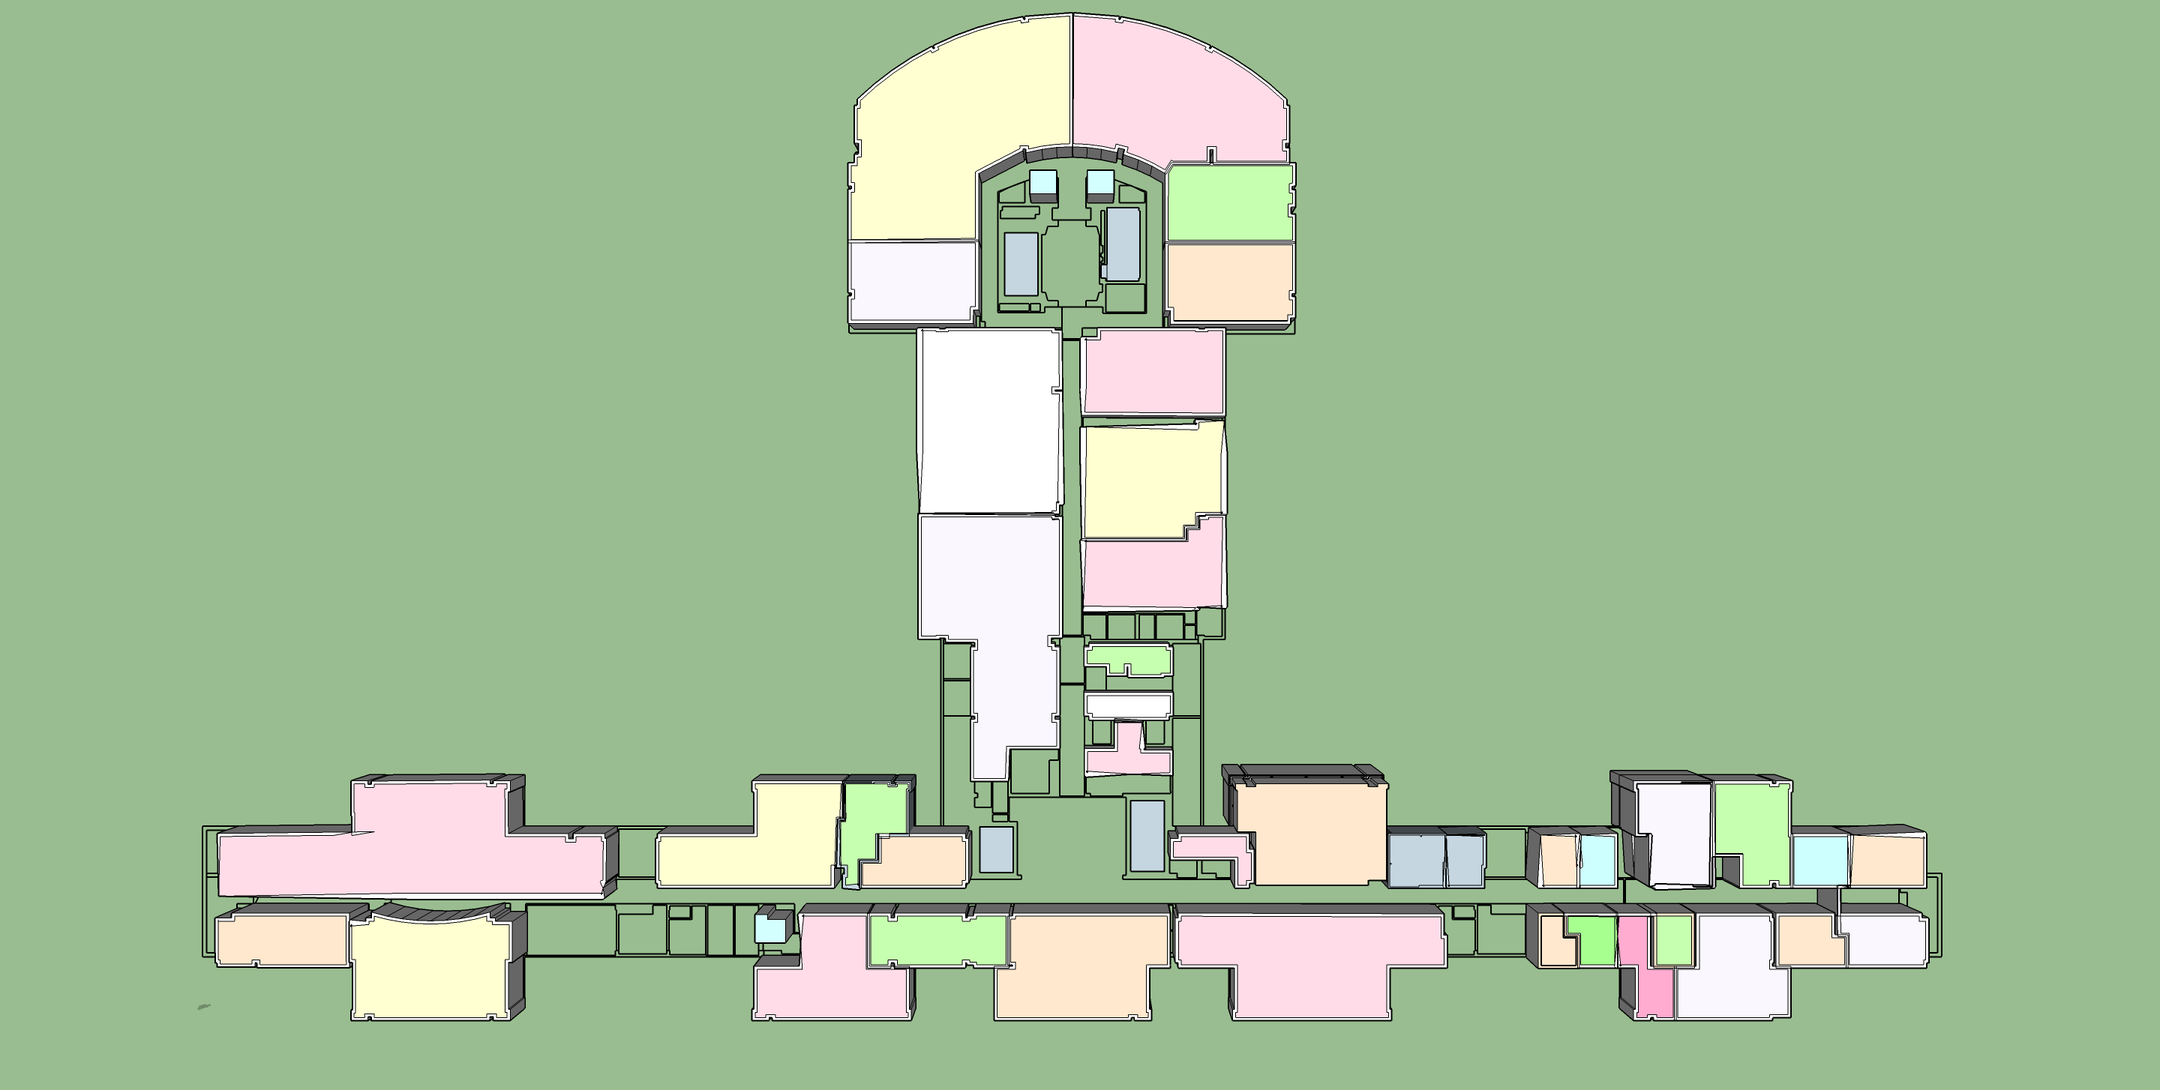
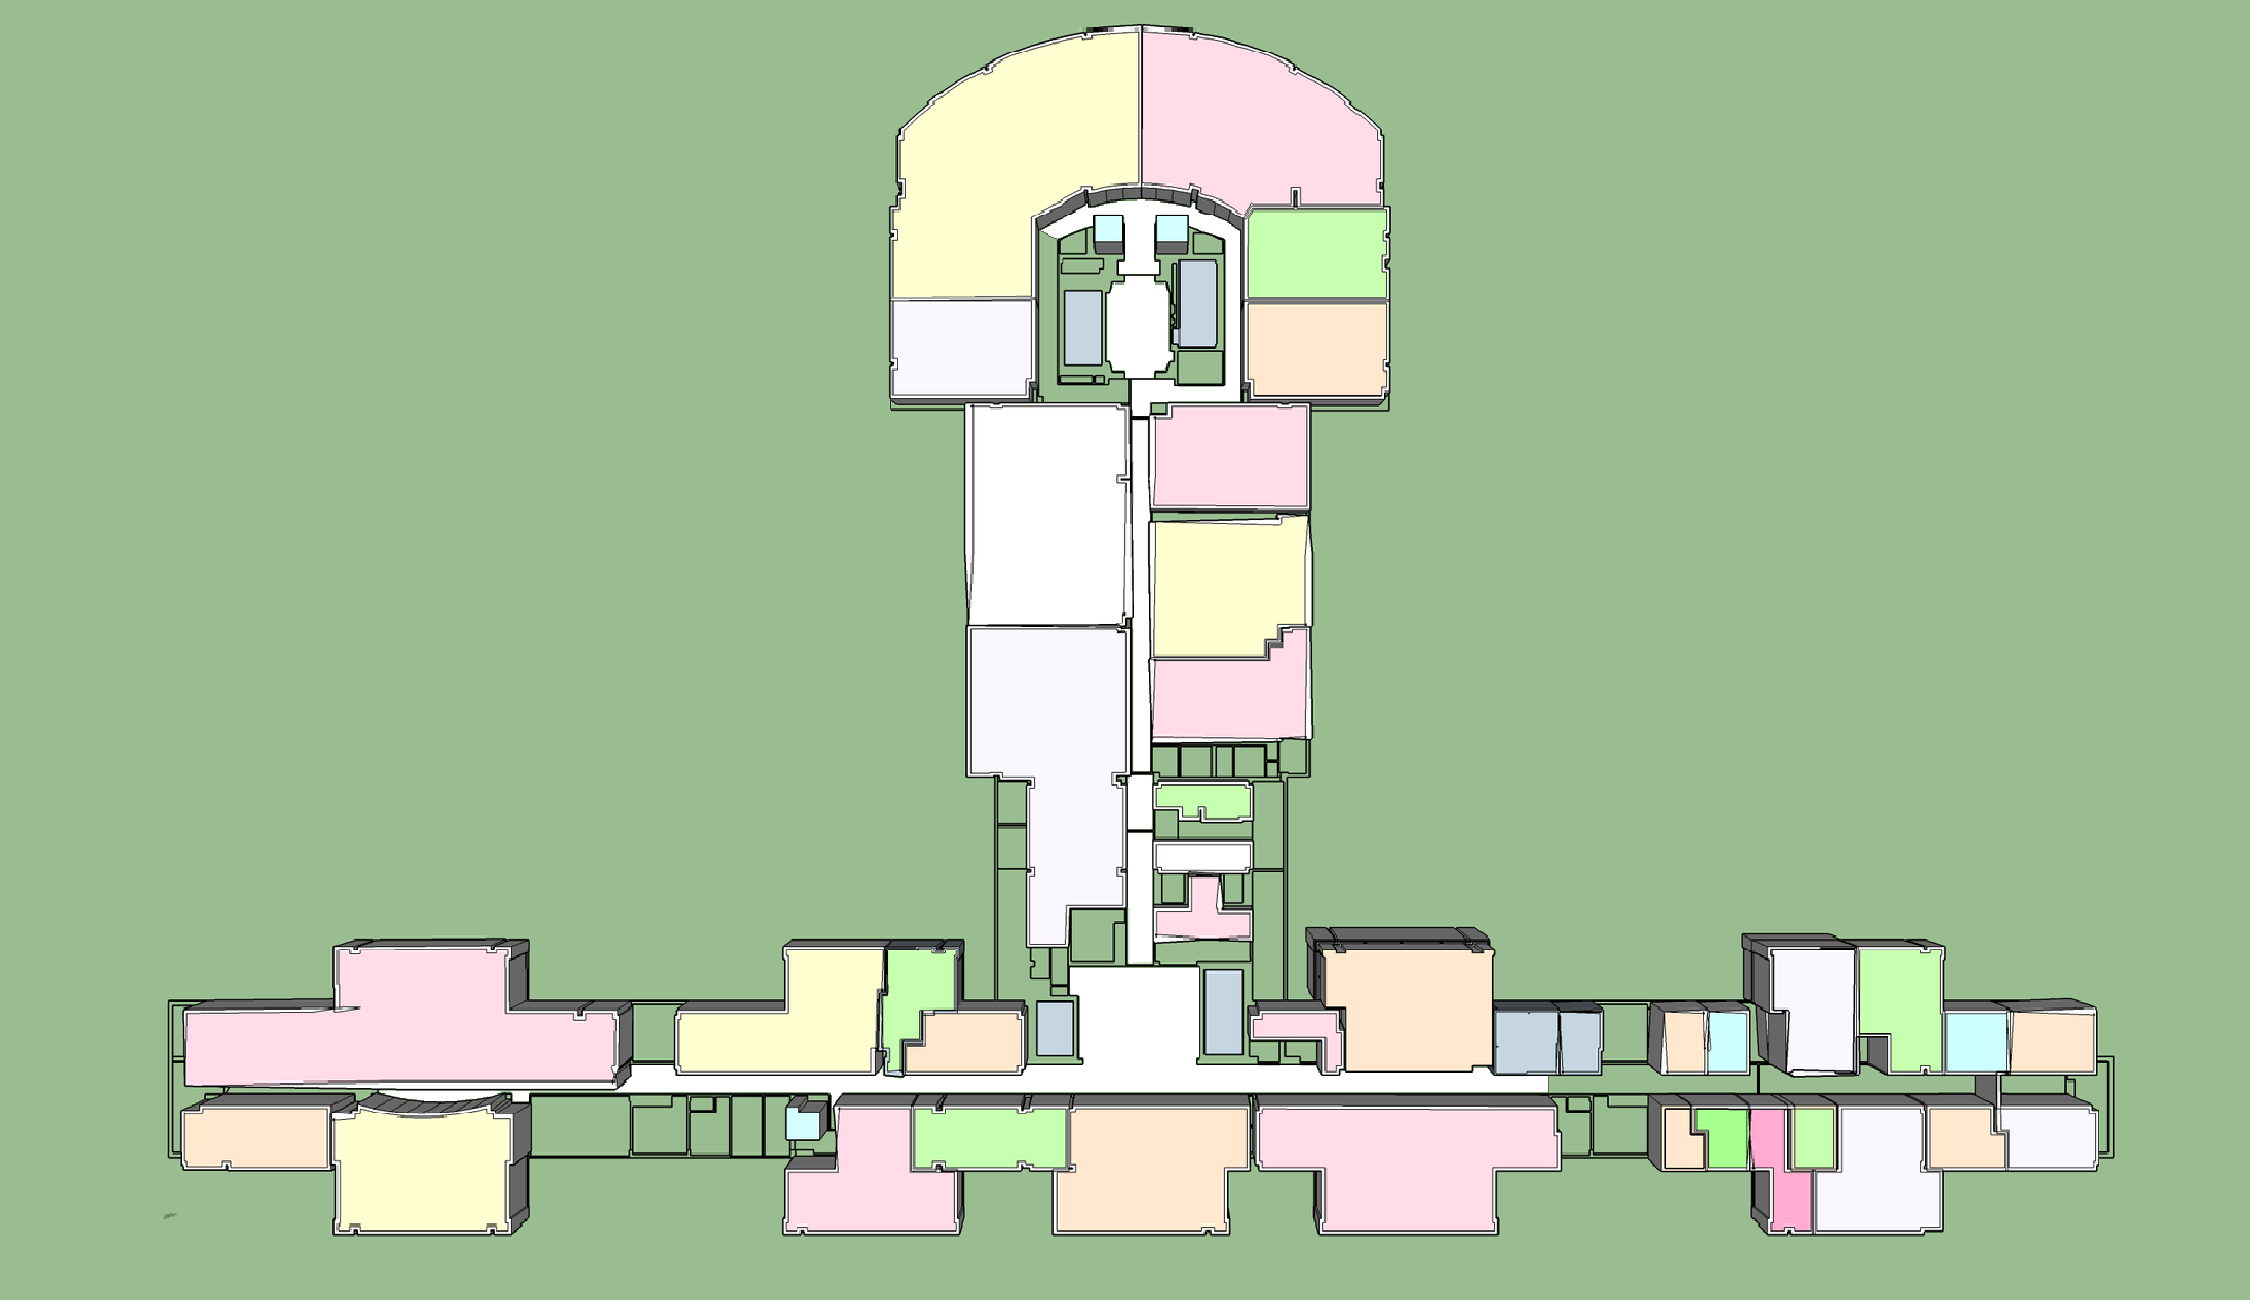
1rst floor correct locations and some connections

Changed region(s): [[0.062, 0.0, 0.9616, 0.967]]

diff --git a/src/main/java/Map/Enums/ImageType.java b/src/main/java/Map/Enums/ImageType.java
@@ -8,6 +8,7 @@ import com.fasterxml.jackson.annotation.JsonFormat;
 @JsonFormat(shape = JsonFormat.Shape.OBJECT)
 public enum ImageType {
 
+    HALLWAYS("/icons/hall.png"),
     POINT("/icons/gift.png"),
     BATHROOM("/icons/bathroom.png"),
     STAIRS("/icons/stair.png"),

diff --git a/src/main/java/Map/Enums/DestinationType.java b/src/main/java/Map/Enums/DestinationType.java
@@ -8,6 +8,7 @@ import com.fasterxml.jackson.annotation.JsonFormat;
 @JsonFormat(shape = JsonFormat.Shape.OBJECT)
 public enum DestinationType {
 
+    HALLWAY,
     PHYSICIAN,
     DEPARTMENT,
     KIOSK,
